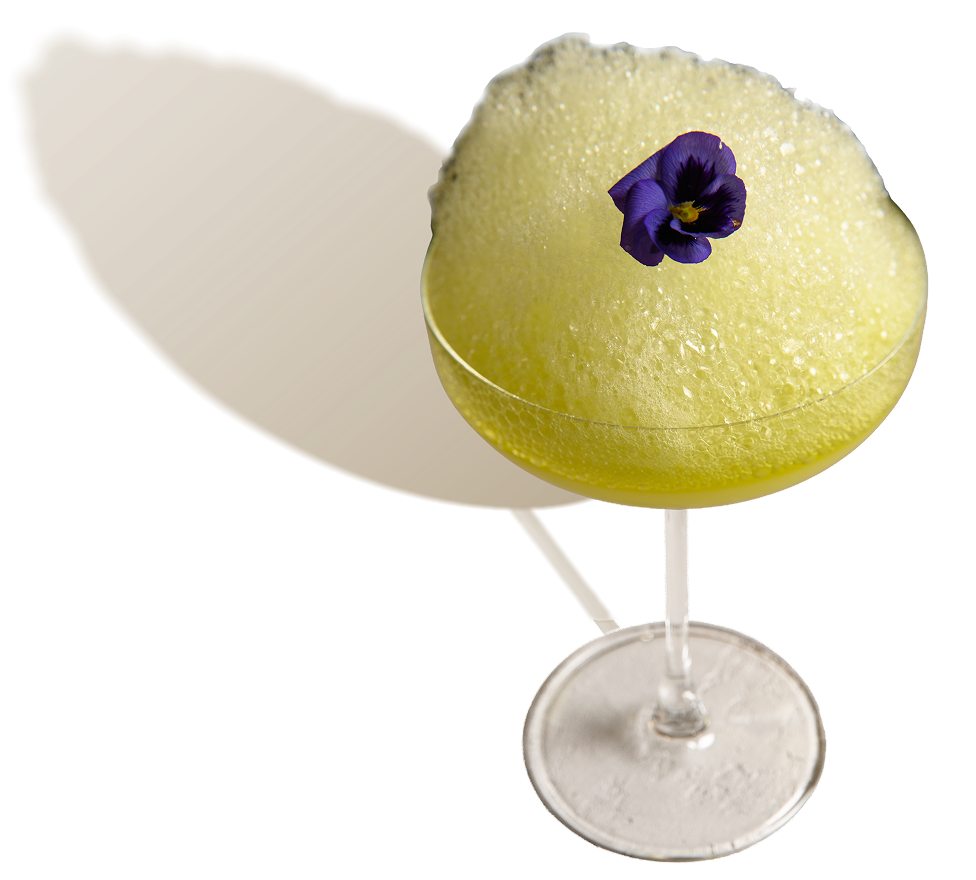
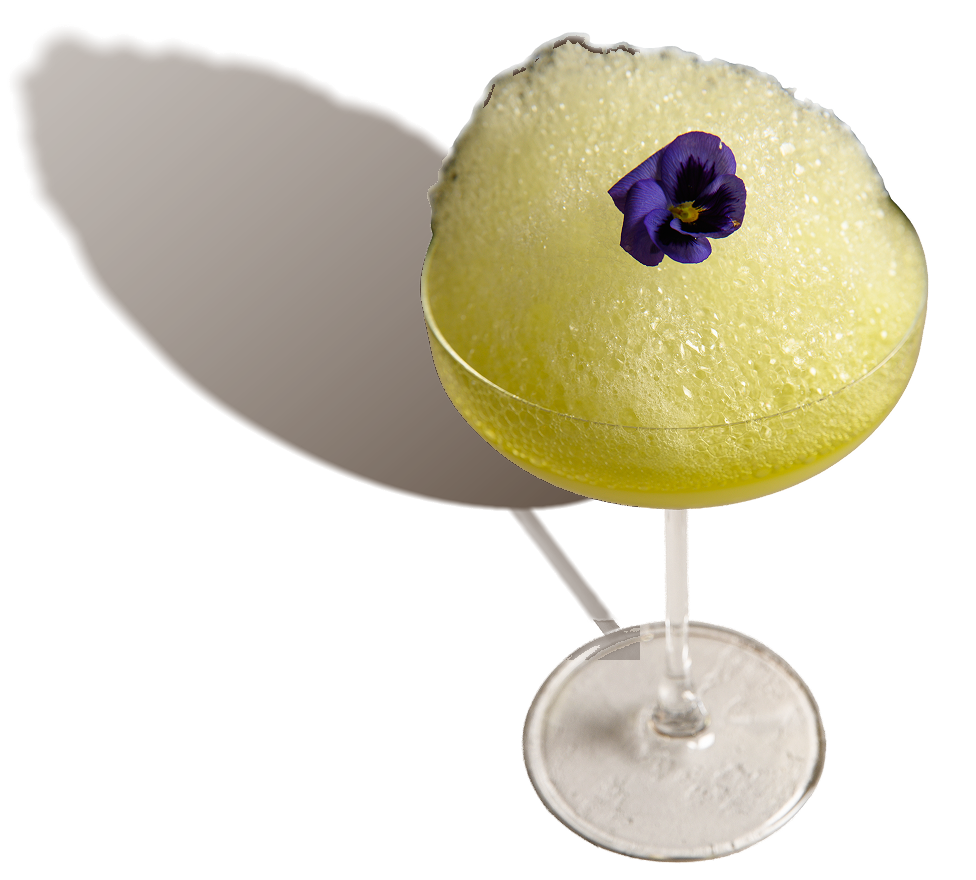
Remove cocktail drink image drop shadow

Changed region(s): [[0.0, 0.0307, 0.6762, 0.767], [0.5533, 0.0307, 0.6455, 0.0614]]

diff --git a/styles.css b/styles.css
@@ -545,7 +545,7 @@ h1 {
 .poster.is-cocktails .cocktail-author-section .bar-drink img {
   width: min(100%, var(--image-width, 205px));
   padding-right: 50px;
-  filter: drop-shadow(12px 18px 13px var(--cocktail-shadow));
+  filter: none;
 }
 
 .poster.is-cocktails .cocktail-author-section .bar-drink span {